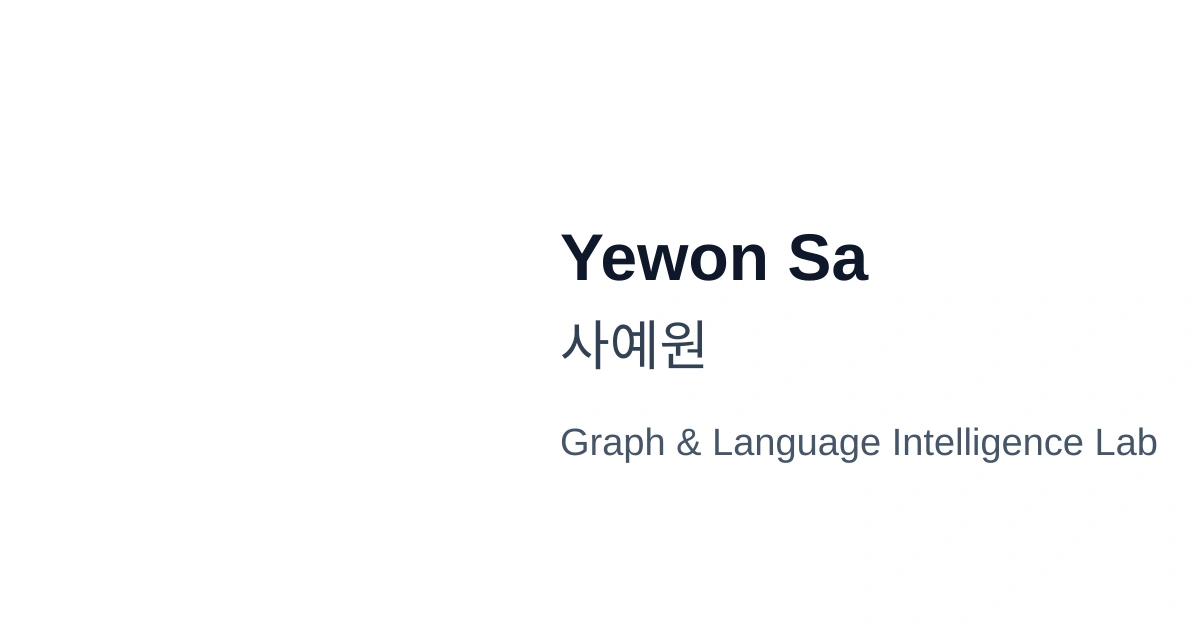
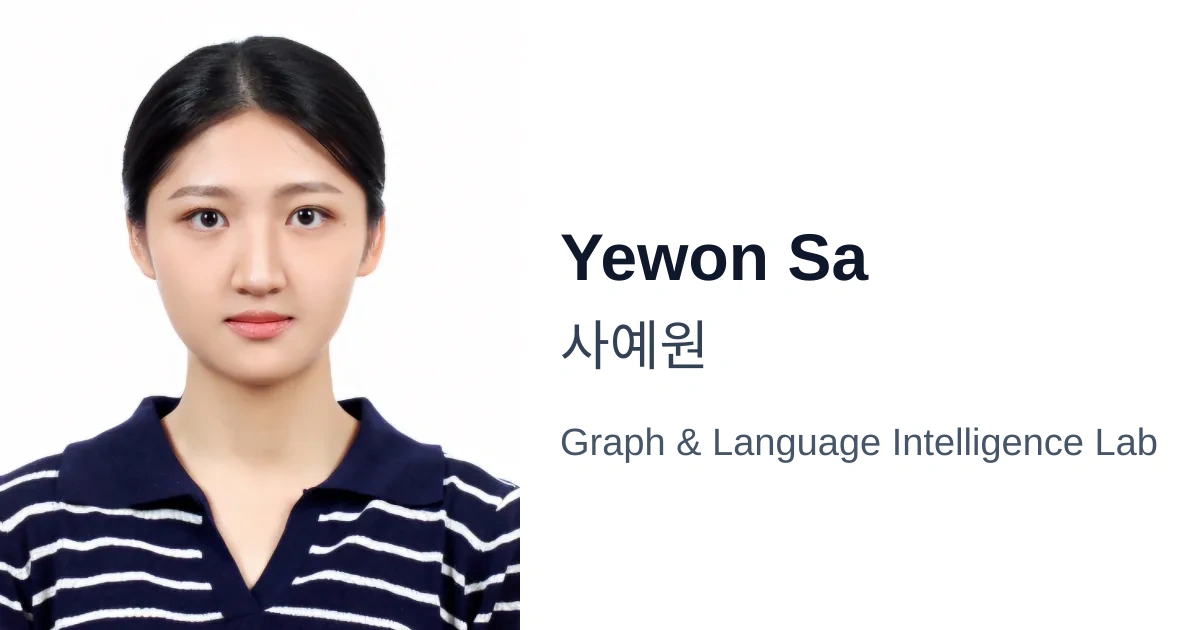
add new members

Changed region(s): [[0.0, 0.0603, 0.4317, 1.0]]

diff --git a/src/components/Profile/ProfileListDetail.tsx b/src/components/Profile/ProfileListDetail.tsx
@@ -9,6 +9,7 @@ import Link from 'next/link';
 export const ProfileListDetail: React.FC<ProfileDetailProps> = (props) => {
     const {id, type, title, name_en, name_ko, admission, joined_start, joined_end, bs, ms, phd, email, interest, homepage, github, linkedin, graduation, affiliation, studies = [], papers = [], isAlumniPage = false } = props;
     const [displayedStudiesCount, setDisplayedStudiesCount] = useState(5);
+    const [displayedPapersCount, setDisplayedPapersCount] = useState(5);
 
     // 현재 프로필과 관련된 스터디를 필터링하는 함수
     const filterStudiesForProfile = (allStudies: any[], profile: any) => {
@@ -160,7 +161,7 @@ export const ProfileListDetail: React.FC<ProfileDetailProps> = (props) => {
                             )
                         </span>
                         <div className="">
-                            {filteredPapers.slice(0, 5).map((paper: PaperData, index: number) => {
+                            {filteredPapers.slice(0, displayedPapersCount).map((paper: PaperData, index: number) => {
                                 // Find current user's role in this paper using explicit role information
                                 const userRole = findUserRoleInPaper(paper.authors, id);
 
@@ -293,14 +294,17 @@ export const ProfileListDetail: React.FC<ProfileDetailProps> = (props) => {
                                     </div>
                                 );
                             })}
-                            {filteredPapers.length > 5 && (
+                            {filteredPapers.length > displayedPapersCount && (
                                 <div className="mb-1.5 leading-snug">
                                     <div className="grid grid-cols-[auto,1fr,auto] gap-0 items-center">
                                         <div className="flex items-start">
                                             <span className="text-text-accent font-semibold pr-0.5 text-[14px] md:text-[16px]">-</span>
-                                            <span className="text-[13px] md:text-[14px] text-text-secondary">
-                                                ... (+{filteredPapers.length - 5} more)
-                                            </span>
+                                            <button 
+                                                onClick={() => setDisplayedPapersCount(prev => Math.min(prev + 5, filteredPapers.length))}
+                                                className="text-[13.5px] md:text-[14.5px] text-text-secondary hover:text-interactive-primary hover:underline cursor-pointer"
+                                            >
+                                                See more ({displayedPapersCount} / {filteredPapers.length})
+                                            </button>
                                         </div>
                                         <div className="text-[12.5px] text-text-accent italic whitespace-nowrap">
                                         </div>

diff --git a/src/components/Profile/ProfileCardDetail.tsx b/src/components/Profile/ProfileCardDetail.tsx
@@ -14,6 +14,7 @@ export const ProfileCardDetail: React.FC<ProfileDetailProps> = (props) => {
     const [emblaRef, emblaApi] = useEmblaCarousel({ loop: true, duration: 30}, [Fade()]);
     const [selectedIndex, setSelectedIndex] = useState(0);
     const [displayedStudiesCount, setDisplayedStudiesCount] = useState(5);
+    const [displayedPapersCount, setDisplayedPapersCount] = useState(5);
 
     const onSelect = useCallback(() => {
         if (!emblaApi) return;
@@ -250,7 +251,7 @@ export const ProfileCardDetail: React.FC<ProfileDetailProps> = (props) => {
                             )
                         </span>
                         <div className="">
-                            {papers.slice(0, 5).map((paper: PaperData, index: number) => {
+                            {papers.slice(0, displayedPapersCount).map((paper: PaperData, index: number) => {
                                 // Find current user's role in this paper using explicit role information
                                 const userRole = findUserRoleInPaper(paper.authors, id);
 
@@ -383,14 +384,17 @@ export const ProfileCardDetail: React.FC<ProfileDetailProps> = (props) => {
                                     </div>
                                 );
                             })}
-                            {papers.length > 5 && (
+                            {papers.length > displayedPapersCount && (
                                 <div className="mb-1.5 leading-snug">
                                     <div className="grid grid-cols-[auto,1fr,auto] gap-0 items-center">
                                         <div className="flex items-start">
                                             <span className="text-text-accent font-semibold pr-0.5 text-[14px] md:text-[16px]">-</span>
-                                            <span className="text-[13px] md:text-[14px] text-text-secondary">
-                                                ... (+{papers.length - 5} more)
-                                            </span>
+                                            <button 
+                                                onClick={() => setDisplayedPapersCount(prev => Math.min(prev + 5, papers.length))}
+                                                className="text-[13.5px] md:text-[14.5px] text-text-secondary hover:text-interactive-primary hover:underline cursor-pointer"
+                                            >
+                                                See more ({displayedPapersCount} / {papers.length})
+                                            </button>
                                         </div>
                                         <div className="text-[12.5px] text-text-accent italic whitespace-nowrap">
                                         </div>

diff --git a/src/components/Footer.tsx b/src/components/Footer.tsx
@@ -22,11 +22,12 @@ export default function Footer() {
                 </div>
                 <div className="pt-3 pb-6 text-white/85 border-t border-t-white border-opacity-20">
                 <p>
-                        Copyright © {currentYear}
-                        <Link className="hover:text-white hover:underline underline-offset-4 font-semibold" href="/">
-                            <span> Graph Intelligence Lab. </span></Link>
-                        <span className="block w-full md:w-auto md:inline">All Rights Reserved.</span>
-                    </p>
+                <span className="block w-full md:w-auto md:inline">Copyright © {currentYear}</span>
+                    <Link className="hover:text-white hover:underline underline-offset-4 font-semibold" href="/">
+                        <span> Graph & Language Intelligence Lab. </span>
+                    </Link>
+                    <span className="block w-full md:w-auto md:inline">All Rights Reserved.</span>
+                </p>
                 </div>
             </div>
         </footer>

diff --git a/src/app/research/project/page.tsx b/src/app/research/project/page.tsx
@@ -30,7 +30,7 @@ export default function Page() {
             tags: ["Recommender Systems", "Graph ML/DL"]
         },
         {
-            title: "실적 공학 문제 해결을 위한 에이전틱 AI 핵심 기술 교육연구 (2025-08-01 ~ 2026-07-31)",
+            title: "실전 공학 문제 해결을 위한 에이전틱 AI 핵심 기술 교육연구 (2025-08-01 ~ 2026-07-31)",
             organization: "건국대학교 그룹연구인력양성",
             tags: ["Multi-Modal LLMs", "Graph ML/DL", "LLM Agent"]
         },
